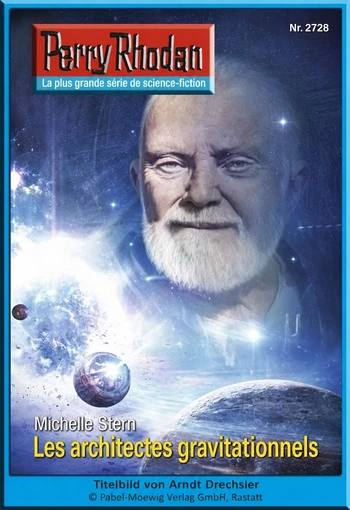
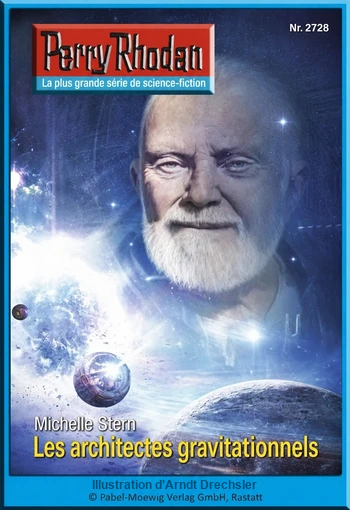
fix: translate illustrator credits on covers 2720-2729

Changed region(s): [[0.2571, 0.9412, 0.7429, 0.9706]]

diff --git a/src/content/chapitres/de-2725.md b/src/content/chapitres/de-2725.md
@@ -4,7 +4,7 @@ cycleNumber: 38
 chapterNumber: 2725
 type: translation
 originalTitle: "Preis der Gerechtigkeit"
-cover: "/images/covers/de-2725.webp?v=20261116-2725-fr"
+cover: "/images/covers/de-2725.webp?v=20261118-credits-fr"
 auteur: "Christian Montillon"
 parution: "2013-11-22"
 statut: traduit

diff --git a/src/content/chapitres/de-2728.md b/src/content/chapitres/de-2728.md
@@ -4,7 +4,7 @@ cycleNumber: 38
 chapterNumber: 2728
 type: translation
 originalTitle: "Die Gravo-Architekten"
-cover: "/images/covers/de-2728.webp?v=20261116-2728-fr"
+cover: "/images/covers/de-2728.webp?v=20261118-credits-fr"
 auteur: "Michelle Stern"
 parution: "2013-12-13"
 statut: traduit

diff --git a/src/content/chapitres/de-2722.md b/src/content/chapitres/de-2722.md
@@ -4,7 +4,7 @@ cycleNumber: 38
 chapterNumber: 2722
 type: translation
 originalTitle: "Altin Magara"
-cover: "/images/covers/de-2722.webp?v=20261116-2722-fr"
+cover: "/images/covers/de-2722.webp?v=20261118-credits-fr"
 auteur: "Michael Marcus Thurner"
 parution: "2013-11-01"
 statut: traduit

diff --git a/src/content/chapitres/de-2724.md b/src/content/chapitres/de-2724.md
@@ -4,7 +4,7 @@ cycleNumber: 38
 chapterNumber: 2724
 type: translation
 originalTitle: "Zeitzeuge der Zukunft"
-cover: "/images/covers/de-2724.webp?v=20261116-2724-fr"
+cover: "/images/covers/de-2724.webp?v=20261118-credits-fr"
 auteur: "Wim Vandemaan"
 parution: "2013-11-15"
 statut: traduit

diff --git a/src/content/chapitres/de-2729.md b/src/content/chapitres/de-2729.md
@@ -4,7 +4,7 @@ cycleNumber: 38
 chapterNumber: 2729
 type: translation
 originalTitle: "In eine neue Ära"
-cover: "/images/covers/de-2729.webp?v=20261116-2729-fr"
+cover: "/images/covers/de-2729.webp?v=20261118-credits-fr"
 auteur: "Marc A. Herren"
 parution: "2013-12-20"
 statut: traduit

diff --git a/src/content/chapitres/de-2727.md b/src/content/chapitres/de-2727.md
@@ -4,7 +4,7 @@ cycleNumber: 38
 chapterNumber: 2727
 type: translation
 originalTitle: "Am Gravo-Abgrund"
-cover: "/images/covers/de-2727.webp?v=20261116-2727-fr"
+cover: "/images/covers/de-2727.webp?v=20261118-credits-fr"
 auteur: "Michelle Stern"
 parution: "2013-12-06"
 statut: traduit

diff --git a/src/content/chapitres/de-2720.md b/src/content/chapitres/de-2720.md
@@ -4,7 +4,7 @@ cycleNumber: 38
 chapterNumber: 2720
 type: translation
 originalTitle: "Im Stern von Apsuma"
-cover: "/images/covers/de-2720.webp?v=20261116-2720-fr"
+cover: "/images/covers/de-2720.webp?v=20261118-credits-fr"
 auteur: "Uwe Anton"
 parution: "2013-10-18"
 statut: traduit

diff --git a/src/content/chapitres/de-2726.md b/src/content/chapitres/de-2726.md
@@ -4,7 +4,7 @@ cycleNumber: 38
 chapterNumber: 2726
 type: translation
 originalTitle: "Totentanz"
-cover: "/images/covers/de-2726.webp?v=20261116-2726-fr"
+cover: "/images/covers/de-2726.webp?v=20261118-credits-fr"
 auteur: "Christian Montillon"
 parution: "2013-11-29"
 statut: traduit

diff --git a/src/content/chapitres/de-2721.md b/src/content/chapitres/de-2721.md
@@ -4,7 +4,7 @@ cycleNumber: 38
 chapterNumber: 2721
 type: translation
 originalTitle: "Der Paradieb"
-cover: "/images/covers/de-2721.webp?v=20261116-2721-fr"
+cover: "/images/covers/de-2721.webp?v=20261118-credits-fr"
 auteur: "Leo Lukas"
 parution: "2013-10-25"
 statut: traduit
